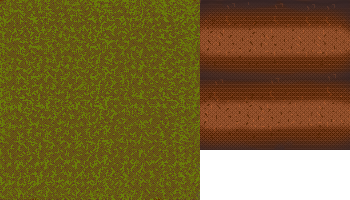
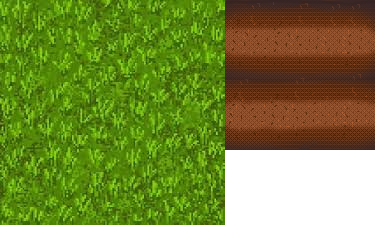
Images

diff --git a/core/src/com/frontanilla/farminghappyness/tests/MyCamera.java b/core/src/com/frontanilla/farminghappyness/tests/MyCamera.java
@@ -1,0 +1,59 @@
+package com.frontanilla.farminghappyness.tests;
+
+import com.badlogic.gdx.Gdx;
+import com.badlogic.gdx.Input;
+import com.badlogic.gdx.graphics.GL20;
+import com.badlogic.gdx.graphics.OrthographicCamera;
+import com.badlogic.gdx.graphics.Texture;
+import com.badlogic.gdx.graphics.g2d.Sprite;
+import com.badlogic.gdx.graphics.g2d.SpriteBatch;
+import com.badlogic.gdx.math.MathUtils;
+
+import static com.frontanilla.farminghappyness.utils.Constants.WORLD_HEIGHT;
+import static com.frontanilla.farminghappyness.utils.Constants.WORLD_WIDTH;
+
+public class MyCamera extends OrthographicCamera {
+
+    public MyCamera(float viewportWidth, float viewportHeight) {
+        super(viewportWidth, viewportHeight);
+
+        position.set(viewportWidth / 2f, viewportHeight / 2f, 0);
+        update();
+    }
+
+    public void handleInput() {
+        if (Gdx.input.isKeyPressed(Input.Keys.A)) {
+            zoom += 0.02;
+        }
+        if (Gdx.input.isKeyPressed(Input.Keys.Q)) {
+            zoom -= 0.02;
+        }
+        if (Gdx.input.isKeyPressed(Input.Keys.LEFT)) {
+            translate(-3, 0, 0); // TODO MULTIPLY BY A DYNAMIC VARIABLE ACCORDING TO ZOOM
+        }
+        if (Gdx.input.isKeyPressed(Input.Keys.RIGHT)) {
+            translate(3, 0, 0); // TODO MULTIPLY BY A DYNAMIC VARIABLE ACCORDING TO ZOOM
+        }
+        if (Gdx.input.isKeyPressed(Input.Keys.DOWN)) {
+            translate(0, -3, 0); // TODO MULTIPLY BY A DYNAMIC VARIABLE ACCORDING TO ZOOM
+        }
+        if (Gdx.input.isKeyPressed(Input.Keys.UP)) {
+            translate(0, 3, 0); // TODO MULTIPLY BY A DYNAMIC VARIABLE ACCORDING TO ZOOM
+        }
+
+        zoom = MathUtils.clamp(zoom, 1, WORLD_WIDTH / viewportWidth);
+        zoom = MathUtils.clamp(zoom, 1, WORLD_HEIGHT / viewportHeight);
+
+        float effectiveViewportWidth = viewportWidth * zoom;
+        float effectiveViewportHeight = viewportHeight * zoom;
+
+        position.x = MathUtils.clamp(position.x, effectiveViewportWidth / 2f, WORLD_WIDTH - effectiveViewportWidth / 2f);
+        position.y = MathUtils.clamp(position.y, effectiveViewportHeight / 2f, WORLD_HEIGHT - effectiveViewportHeight / 2f);
+    }
+
+    public void resize(int width, int height) {
+        viewportWidth = WORLD_WIDTH * 0.3f;
+        viewportHeight = WORLD_WIDTH * 0.3f * height / width;
+        update();
+    }
+}

diff --git a/core/src/com/frontanilla/farminghappyness/game/GameMap.java b/core/src/com/frontanilla/farminghappyness/game/GameMap.java
@@ -1,24 +1,37 @@
 package com.frontanilla.farminghappyness.game;
 
 import com.badlogic.gdx.graphics.g2d.SpriteBatch;
-import com.frontanilla.farminghappyness.game.areas.GridArea;
-import com.frontanilla.farminghappyness.game.areas.NormalArea;
+import com.frontanilla.farminghappyness.game.areas.DefenseArea;
+import com.frontanilla.farminghappyness.game.areas.PlantsArea;
+import com.frontanilla.farminghappyness.utils.Assets;
+import com.frontanilla.farminghappyness.utils.Constants;
 
 public class GameMap {
 
-    private GridArea plantsArea;
-    private GridArea defenseArea;
-    private NormalArea normalArea;
+    private PlantsArea plantsArea;
+    private DefenseArea defenseArea;
 
     public GameMap() {
-        plantsArea = new GridArea();
-        defenseArea = new GridArea();
-        normalArea = new NormalArea();
+        plantsArea = new PlantsArea();
+        defenseArea = new DefenseArea();
     }
 
     public void render(SpriteBatch batch) {
         plantsArea.render(batch);
         defenseArea.render(batch);
-        normalArea.render(batch);
+        renderGround(batch);
+    }
+
+    private void renderGround(SpriteBatch batch) {
+        for (int i = 0; i < 10; i++) {
+            for (int j = 0; j < 10; j++) {
+                batch.draw(
+                        Assets.grass,
+                        i * Constants.WORLD_WIDTH / 10,
+                        j * Constants.WORLD_HEIGHT / 10,
+                        Constants.WORLD_WIDTH / 10,
+                        Constants.WORLD_HEIGHT / 10);
+            }
+        }
     }
 }

diff --git a/core/src/com/frontanilla/farminghappyness/game/GameScreen.java b/core/src/com/frontanilla/farminghappyness/game/GameScreen.java
@@ -1,20 +1,36 @@
 package com.frontanilla.farminghappyness.game;
 
+import com.badlogic.gdx.Gdx;
 import com.badlogic.gdx.ScreenAdapter;
+import com.badlogic.gdx.graphics.GL20;
 import com.badlogic.gdx.graphics.g2d.SpriteBatch;
+import com.frontanilla.farminghappyness.tests.MyCamera;
+
+import static com.frontanilla.farminghappyness.utils.Constants.WORLD_HEIGHT;
+import static com.frontanilla.farminghappyness.utils.Constants.WORLD_WIDTH;
 
 public class GameScreen extends ScreenAdapter {
 
     private SpriteBatch batch;
     private GameMap map;
+    private MyCamera camera;
 
     public GameScreen() {
         batch = new SpriteBatch();
         map = new GameMap();
+
+        // Constructs a new OrthographicCamera, using the given viewport width and height
+        // Height is multiplied by aspect ratio.
+        float w = Gdx.graphics.getWidth();
+        float h = Gdx.graphics.getHeight();
+        camera = new MyCamera(WORLD_WIDTH * 0.3f, WORLD_HEIGHT * 0.3f * (h / w));
     }
 
     public void update(float delta) {
-
+        camera.handleInput();
+        camera.update();
+        batch.setProjectionMatrix(camera.combined);
+        Gdx.gl.glClear(GL20.GL_COLOR_BUFFER_BIT);
     }
 
     public void render(float delta) {
@@ -23,5 +39,11 @@ public class GameScreen extends ScreenAdapter {
         batch.begin();
         map.render(batch);
         batch.end();
+    }
+
+    @Override
+    public void resize(int width, int height) {
+        super.resize(width, height);
+        camera.resize(width, height);
     }
 }

diff --git a/core/src/com/frontanilla/farminghappyness/utils/Assets.java b/core/src/com/frontanilla/farminghappyness/utils/Assets.java
@@ -6,7 +6,7 @@ import com.badlogic.gdx.graphics.g2d.TextureRegion;
 public class Assets {
 
     public static TextureRegion tree, river1, river2, river3, river4, farmland,
-            grass;
+            grass, turret, turretCannon;
 
     public static void init() {
         Texture decoration = new Texture("images/decoration.png");
@@ -16,8 +16,11 @@ public class Assets {
         river3 = new TextureRegion(decoration, 282, 180, 141, 170);
         river4 = new TextureRegion(decoration, 423, 180, 141, 170);
         Texture tiles = new Texture("images/tiles.png");
-        farmland = new TextureRegion(tiles, 200, 0, 150, 150);
-        grass = new TextureRegion(tiles, 0, 0, 200, 200);
+        farmland = new TextureRegion(tiles, 225, 0, 150, 150);
+        grass = new TextureRegion(tiles, 0, 0, 225, 225);
+        Texture defenses = new Texture("images/defenses.png");
+        turret = new TextureRegion(defenses, 0, 0, 400, 400);
+        turretCannon = new TextureRegion(defenses, 400, 0, 400, 400);
     }
 
 }

diff --git a/core/src/com/frontanilla/farminghappyness/game/structures/Turret.java b/core/src/com/frontanilla/farminghappyness/game/structures/Turret.java
@@ -1,0 +1,17 @@
+package com.frontanilla.farminghappyness.game.structures;
+
+import com.badlogic.gdx.graphics.g2d.SpriteBatch;
+import com.frontanilla.farminghappyness.utils.Assets;
+import com.frontanilla.farminghappyness.utils.Constants;
+
+public class Turret {
+
+    public void render(SpriteBatch batch) {
+        batch.draw(
+                Assets.turret,
+                0,
+                0,
+                Constants.TURRET_WIDTH,
+                Constants.TURRET_HEIGHT);
+    }
+}

diff --git a/core/src/com/frontanilla/farminghappyness/utils/Constants.java b/core/src/com/frontanilla/farminghappyness/utils/Constants.java
@@ -2,6 +2,12 @@ package com.frontanilla.farminghappyness.utils;
 
 public class Constants {
 
+    // World
+    public static final int WORLD_WIDTH = 1000;
+    public static final int WORLD_HEIGHT = 500;
     // Camera
     public static final float CAMERA_HEIGHT = 1000;
+    // Turret
+    public static final float TURRET_WIDTH = 100;
+    public static final float TURRET_HEIGHT = 100;
 }

diff --git a/core/src/com/frontanilla/farminghappyness/game/areas/DefenseArea.java b/core/src/com/frontanilla/farminghappyness/game/areas/DefenseArea.java
@@ -1,13 +1,10 @@
 package com.frontanilla.farminghappyness.game.areas;
 
-import com.badlogic.gdx.graphics.Color;
 import com.badlogic.gdx.graphics.g2d.SpriteBatch;
 
-public class Tile {
-
-    private boolean enabled;
+public class DefenseArea {
 
     public void render(SpriteBatch batch) {
-        batch.setColor(Color.WHITE);
+        // TODO
     }
 }

diff --git a/core/src/com/frontanilla/farminghappyness/game/areas/PlantsArea.java b/core/src/com/frontanilla/farminghappyness/game/areas/PlantsArea.java
@@ -1,13 +1,12 @@
 package com.frontanilla.farminghappyness.game.areas;
 
-import com.badlogic.gdx.graphics.Color;
 import com.badlogic.gdx.graphics.g2d.SpriteBatch;
 
-public class Tile {
+public class PlantsArea {
 
-    private boolean enabled;
+
 
     public void render(SpriteBatch batch) {
-        batch.setColor(Color.WHITE);
+
     }
 }
